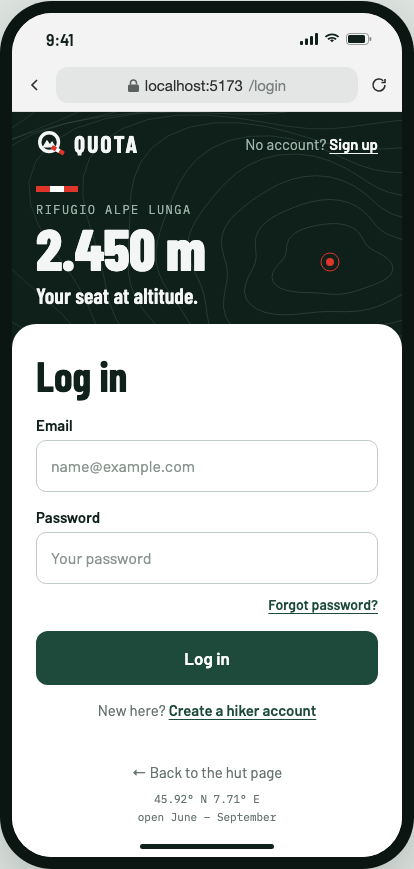
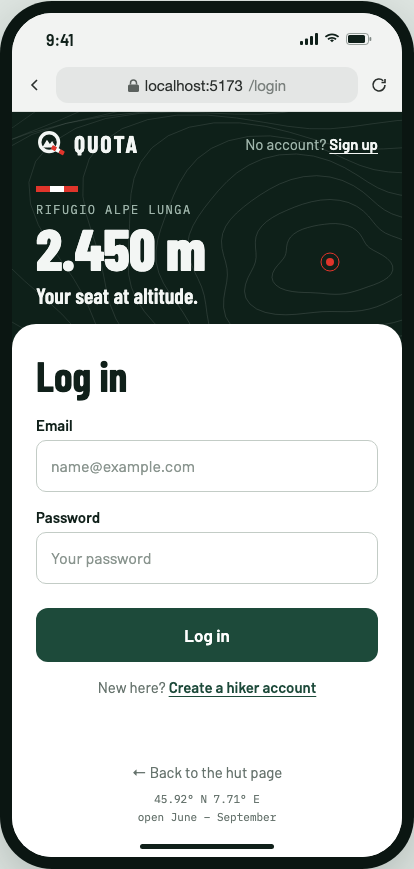
Revert "docs: add the forgot password flow to the login mockup (MH-45)"
The team decided not to build a forgot password feature: no story asks
for it. Back to the login without the link and without the reset
screens; the README keeps saying why there is no reset.

Changed region(s): [[0.087, 0.6835, 0.9275, 0.8389]]

diff --git a/docs/mockups/login/phone.html b/docs/mockups/login/phone.html
@@ -74,8 +74,6 @@
   .btn.busy { background: #5D7C70; }
   .btn.outline { background: var(--snow); color: var(--ink); border: 1px solid var(--input-border); }
   .spinner { width: 18px; height: 18px; border-radius: 50%; border: 2.5px solid rgba(255,255,255,.35); border-top-color: #fff; }
-  .forgot { text-align: right; font-size: 14px; margin: -4px 0 18px; }
-  .forgot b { color: var(--pine); text-decoration: underline; text-underline-offset: 3px; font-weight: 600; }
   .alt-line { text-align: center; color: var(--stone); font-size: 15px; margin-top: 16px; }
   .alt-line b { color: var(--pine); text-decoration: underline; text-underline-offset: 3px; }
   .alert { display: flex; border-radius: 10px; overflow: hidden; font-weight: 500; font-size: 14px; margin-bottom: 18px; line-height: 1.4; }
@@ -168,12 +166,9 @@ const foot = `<div class="foot"><span class="back">← Back to the hut page</spa
 const login = ({ alert, email = {}, password = {}, busy }) => `${status()}${urlbar("/login")}${hero("No account? <b>Sign up</b>")}<div class="form">
   <h1 style="margin-bottom:20px">Log in</h1>${alert || ""}
   ${field({ label: "Email", ph: "name@example.com", ...email })}${field({ label: "Password", ph: "Your password", ...password })}
-  <div class="forgot"><b>Forgot password?</b></div>
+  <div style="height:8px"></div>
   <button class="btn primary ${busy ? "busy" : ""}">${busy ? '<i class="spinner"></i>Logging in…' : "Log in"}</button>
   <div class="alt-line">New here? <b>Create a hiker account</b></div>${foot}</div>`;
-
-const reset = (path, body) => `${status()}${urlbar(path)}${hero("No account? <b>Sign up</b>")}<div class="form">${body}${foot}</div>`;
-const backToLogin = `<div class="alt-line"><b>← Back to log in</b></div>`;
 
 const signup = (f) => `${status()}${urlbar("/signup")}${heroCompact("Already registered? <b>Log in</b>")}<div class="form">
   <h1>Create your account</h1><p class="sub">Fields marked * are required.</p>
@@ -207,14 +202,6 @@ const groups = [
         html: signup({ first: {}, last: {}, email: {}, phone: {}, pw: {}, pw2: {} }) },
       { n: "M6", title: "Sign up, errors", notes: ["Same messages as desktop screen 6. The page scrolls to the first field with an error.", "409: \"Log in\" in the message is a link."], long: true,
         html: signup({ first: { val: "Giulia" }, last: { err: "Enter your last name." }, email: { val: "giulia.rossi@example.com", err: 'An account with this email already exists. <u>Log in</u> instead.' }, phone: { ph: "+39 333 123 4567" }, pw: { val: "••••••", err: "Use at least 8 characters." }, pw2: { val: "•••••••", err: "The passwords are different." } }) },
-    ] },
-  { title: "Forgot password", text: "\"Forgot password?\" on the login page starts the reset. The hiker gets a link by email and chooses a new password; the hut staff never see or set a password. Same flow and texts as desktop screens 8–12.",
-    shots: [
-      { n: "M11", title: "Forgot password", notes: ["The hiker gives the email of the account."], html: reset("/forgot-password", `<h1>Forgot password?</h1><p class="sub">Enter the email of your account. We will send you a link to choose a new password.</p>${field({ label: "Email", ph: "name@example.com" })}<button class="btn primary">Send reset link</button>${backToLogin}`) },
-      { n: "M12", title: "Check your email", notes: ["Same message whether the account exists or not.", "The link works once and for 1 hour."], html: reset("/forgot-password", `<h1 style="margin-bottom:20px">Check your email</h1><div class="alert info"><span>If an account exists for giulia.rossi@example.com, we sent it a link to choose a new password. The link works for 1 hour.</span></div><p class="sub">Nothing in your inbox? Look in the spam folder, or ask for a new link.</p><button class="btn primary">Back to log in</button><div class="alt-line"><b>Send the link again</b></div>`) },
-      { n: "M13", title: "New password", notes: ["Opened from the link in the email.", "Same rules as sign-up."], html: reset("/reset-password", `<h1>New password</h1><p class="sub">For giulia.rossi@example.com</p>${field({ label: "New password", val: "••••••••••" })}${field({ label: "Repeat new password", val: "•••••••••", err: "The passwords are different." })}<button class="btn primary" style="margin-top:6px">Save new password</button>`) },
-      { n: "M14", title: "Link expired", notes: ["After 1 hour or after one use.", "The email is already filled in."], html: reset("/reset-password", `<h1 style="margin-bottom:20px">Link expired</h1><div class="alert error"><span>The link has expired or was already used. Ask for a new one.</span></div>${field({ label: "Email", val: "giulia.rossi@example.com" })}<button class="btn primary">Send a new link</button>${backToLogin}`) },
-      { n: "M15", title: "Password changed", notes: ["Back on the login page, with this note.", "The other sessions are logged out."], html: login({ alert: '<div class="alert info"><span>Your password has changed. Log in with the new one.</span></div>', email: { val: "giulia.rossi@example.com" } }) },
     ] },
   { title: "Navigation", text: "The navbar collapses into a menu button (react-bootstrap <code>Navbar expand=\"lg\"</code>). Opening it shows who is logged in, the pages of that role, and Log out. Desktop screen 7 shows the same three roles.",
     shots: [

diff --git a/docs/mockups/login/README.md b/docs/mockups/login/README.md
@@ -7,7 +7,7 @@ Mockup for the login frontend ([MH-55](https://polito-se2-26-16.youtrack.cloud/i
 | Figma page | What it holds |
 |---|---|
 | **Brand · QUOTA** | Name, logo, palette, typography, motifs and usage rules |
-| **MH-45 Login & sign-up** | The 12 desktop screens and the 15 phone screens below |
+| **MH-45 Login & sign-up** | The 7 desktop screens and the 10 phone screens below |
 | **Components** | Logo, trail blaze, button, text field, alert, navbars, brand panel, phone browser bar and top bar, and the colour variables |
 
 ## The brand in one paragraph
@@ -25,11 +25,6 @@ The app is called **QUOTA**. In Italian *quota* is altitude (huts are signed "qu
 | 5 | Sign up, hikers only | ![Sign up](05-signup.png) |
 | 6 | Sign up, errors | ![Sign up errors](06-signup-errors.png) |
 | 7 | Navbar for each role, and a hiker on a staff page | ![Navbar per role](07-navbar-per-role.png) |
-| 8 | Forgot password | ![Forgot password](08-forgot-password.png) |
-| 9 | Check your email | ![Check your email](09-check-your-email.png) |
-| 10 | Choose a new password | ![New password](10-new-password.png) |
-| 11 | Reset link expired or already used | ![Link expired](11-link-expired.png) |
-| 12 | Password changed, back to the login | ![Password changed](12-password-changed.png) |
 
 Login and sign-up are split screens: the **brand panel** on the left (hut name and altitude on a contour map), the form on the right.
 
@@ -58,11 +53,6 @@ The same website opened in a phone browser, not a separate app: the React pages 
 | 8 | Menu, employee | ![Employee menu](phone/08-menu-employee.png) |
 | 9 | Menu, manager | ![Manager menu](phone/09-menu-manager.png) |
 | 10 | Staff only | ![Staff only on a phone](phone/10-staff-only.png) |
-| 11 | Forgot password | ![Forgot password on a phone](phone/11-forgot-password.png) |
-| 12 | Check your email | ![Check your email on a phone](phone/12-check-your-email.png) |
-| 13 | New password | ![New password on a phone](phone/13-new-password.png) |
-| 14 | Link expired | ![Link expired on a phone](phone/14-link-expired.png) |
-| 15 | Password changed | ![Password changed on a phone](phone/15-password-changed.png) |
 
 ## Behaviour
 
@@ -71,7 +61,7 @@ The same website opened in a phone browser, not a separate app: the React pages 
 - **After login:** a hiker goes to *Book a table*; an employee or the manager goes to *Slots & tables*. If the user came from a protected page (screen 4), send them back there instead.
 - **The blue note on screen 4** ("Log in to book a table.") is shown only when a user who is not logged in opens a protected page and is sent to the login. It says why they landed on the login instead of the page they clicked; without it the jump looks like an error. Opening the login page directly shows no note.
 - **After sign-up:** the hiker is logged in straight away and goes to *Book a table*.
-- **Forgot password:** the hiker resets the password alone, with a link sent by email (screens 8–12). Passwords are stored only as hashes: nobody, the hut staff included, can read or set them.
+- **No password reset:** no story asks for one, so the login page has no "Forgot password?" link. Passwords are stored only as hashes: nobody, the hut staff included, can read them. If the team wants a reset, it has to be asked to the product owner first.
 - **Log out** is in the navbar for every role and goes back to the public hut page.
 - **The navbar shows only the pages that role can use** (screen 7). A hiker who opens a staff page by URL sees the "Staff only" page.
 - **While the request is running** the button is disabled and reads "Logging in…" or "Creating account…".
@@ -103,28 +93,6 @@ Helper texts: Email "Your booking confirmations are sent here." · Phone "Option
 Email already registered (server answers `409`): under the email field, **"An account with this email already exists. Log in instead."** with *Log in* as a link.
 
 All rules except the `409` are checked in the browser before sending, and checked again by the server (`400` if they fail).
-
-### Forgot password
-
-A team decision: no story asks for it, but without it a hiker who forgets the password could not get back into the account, and the staff must never know or set passwords. Like the confirmation of MH-03, it needs the email service.
-
-1. **Login → "Forgot password?"** opens the *Forgot password* page (screen 8): one field, Email.
-2. **Send reset link.** The server always answers the same way (`202`), whether an account exists for that email or not, so nobody can find out which emails are registered. The page shows screen 9.
-3. **The email** holds a link with a random token. The token works **once** and for **1 hour**; asking for a new link cancels the old one.
-4. **The link** opens *Choose a new password* (screen 10): new password and repeat, with the same rules and messages as sign-up.
-5. **Save new password.** The server checks the token and the password (`204`), logs out every other session of that account, and the hiker goes back to the login with the note of screen 12.
-6. **Expired or used link** (`410`): screen 11, with the email already filled in to ask for a new one.
-
-| Where | Text |
-|---|---|
-| Login, under the password | **Forgot password?** |
-| Forgot password, title and text | Forgot password? · Enter the email of your account. We will send you a link to choose a new password. |
-| Forgot password, button | Send reset link · link: ← Back to log in |
-| Link sent | If an account exists for *email*, we sent it a link to choose a new password. The link works for 1 hour. · Nothing in your inbox? Look in the spam folder, or ask for a new link. |
-| New password, title | New password · For *email* |
-| New password, fields | New password · Repeat new password (rules and messages as in sign-up) · button: Save new password |
-| Link expired or used | The link has expired or was already used. Ask for a new one. · button: Send a new link |
-| Back on the login | Your password has changed. Log in with the new one. |
 
 ### Other texts
 
